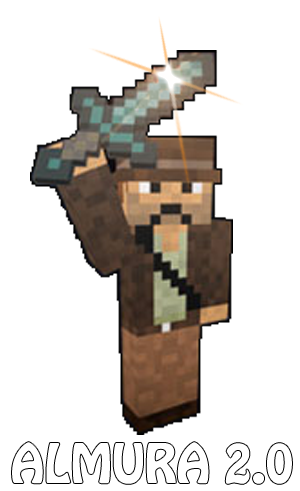
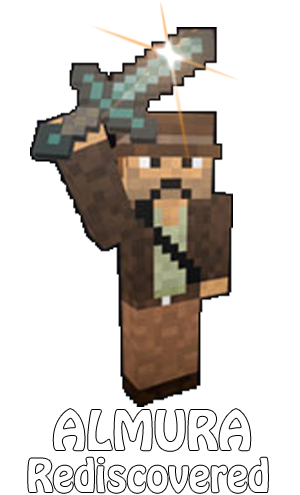
Commit updated main menu graphic as well as positional changes.

diff --git a/src/main/java/com/almuradev/almura/client/gui/menu/DynamicMainMenu.java b/src/main/java/com/almuradev/almura/client/gui/menu/DynamicMainMenu.java
@@ -57,7 +57,7 @@ public class DynamicMainMenu extends SimpleGui {
         // Create the singleplayer button
         final UIButton singleplayerButton = new UIButton(this, Colors.AQUA + "Singleplayer");
         singleplayerButton.setSize(180, 16);
-        singleplayerButton.setPosition(0, getPaddedY(logoImage, padding * 3), Anchor.CENTER | Anchor.TOP);
+        singleplayerButton.setPosition(0, getPaddedY(logoImage, padding * 2), Anchor.CENTER | Anchor.TOP);
         singleplayerButton.setName("button.singleplayer");
         singleplayerButton.register(this);
 
@@ -97,7 +97,7 @@ public class DynamicMainMenu extends SimpleGui {
         quitButton.register(this);
 
         // Create the copyright label
-        final UILabel copyrightLabel = new UILabel(this, Colors.GRAY + "Copyright AlmuraDev 2012 - 2016 ");
+        final UILabel copyrightLabel = new UILabel(this, Colors.GRAY + "Copyright AlmuraDev 2012 - 201 ");
         copyrightLabel.setPosition(0, -9, Anchor.CENTER | Anchor.BOTTOM);
         copyrightLabel.setFontRenderOptions(FontRenderOptionsConstants.FRO_SCALE_070);
 
